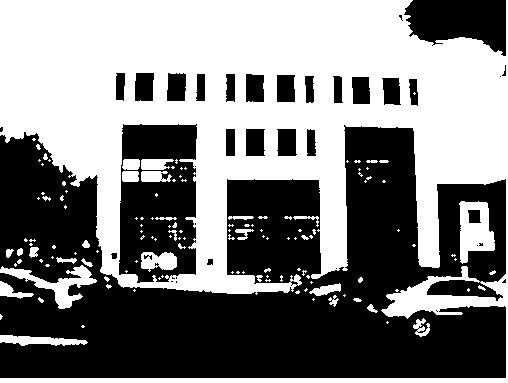
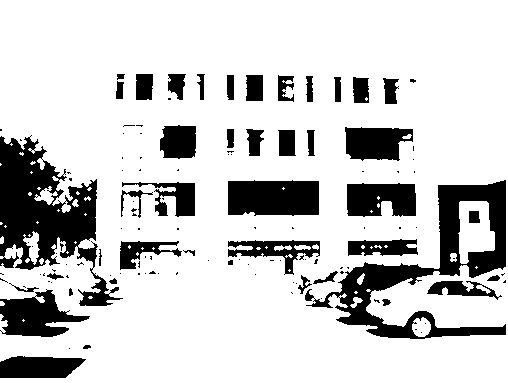
Laboratory 3 implementation update.

diff --git a/src/Lab3.java b/src/Lab3.java
@@ -115,7 +115,7 @@ public class Lab3 {
         }
 
         Mat binaryStaveMat = new Mat();
-        Imgproc.threshold(staveMat, binaryStaveMat, 155, 255, Imgproc.THRESH_BINARY);
+        Imgproc.threshold(staveMat, binaryStaveMat, 100, 255, Imgproc.THRESH_BINARY);
         return binaryStaveMat;
     }
 }
